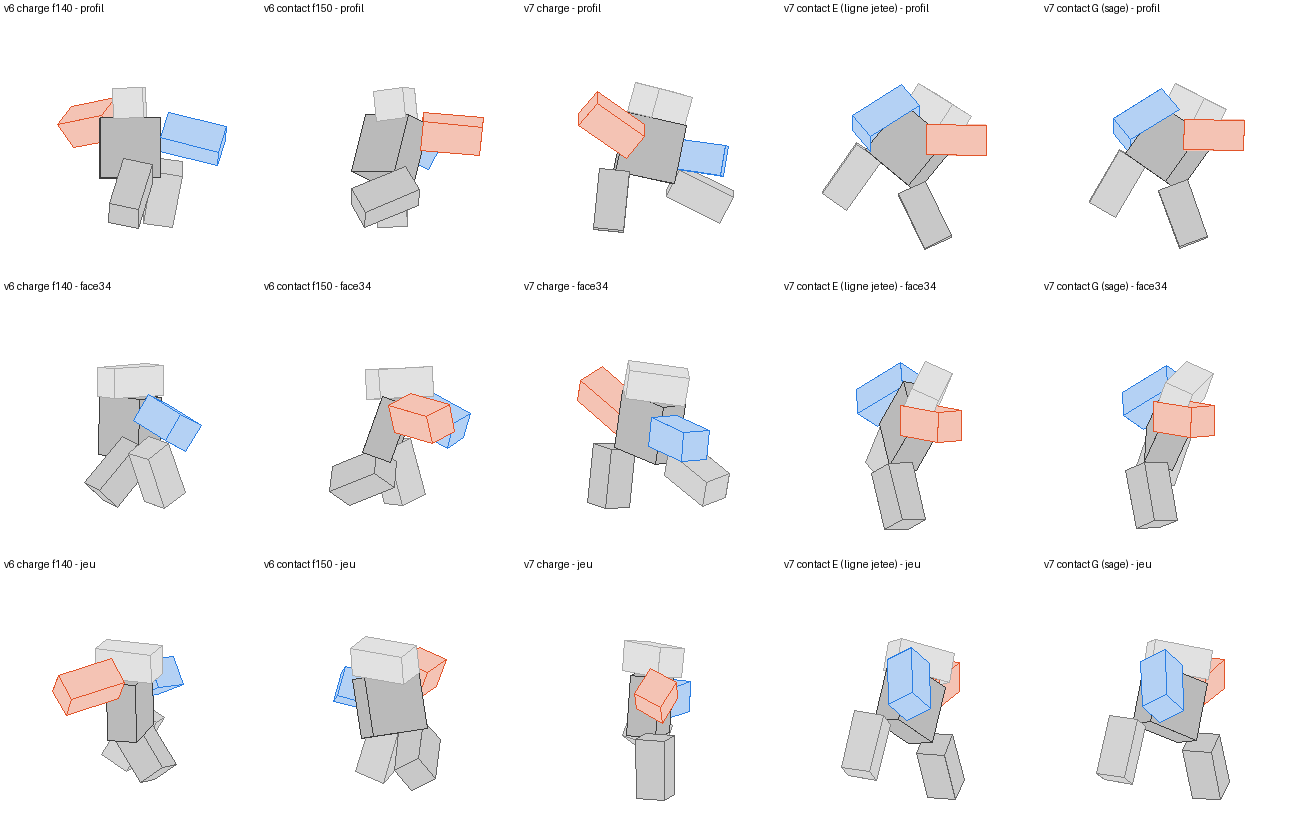
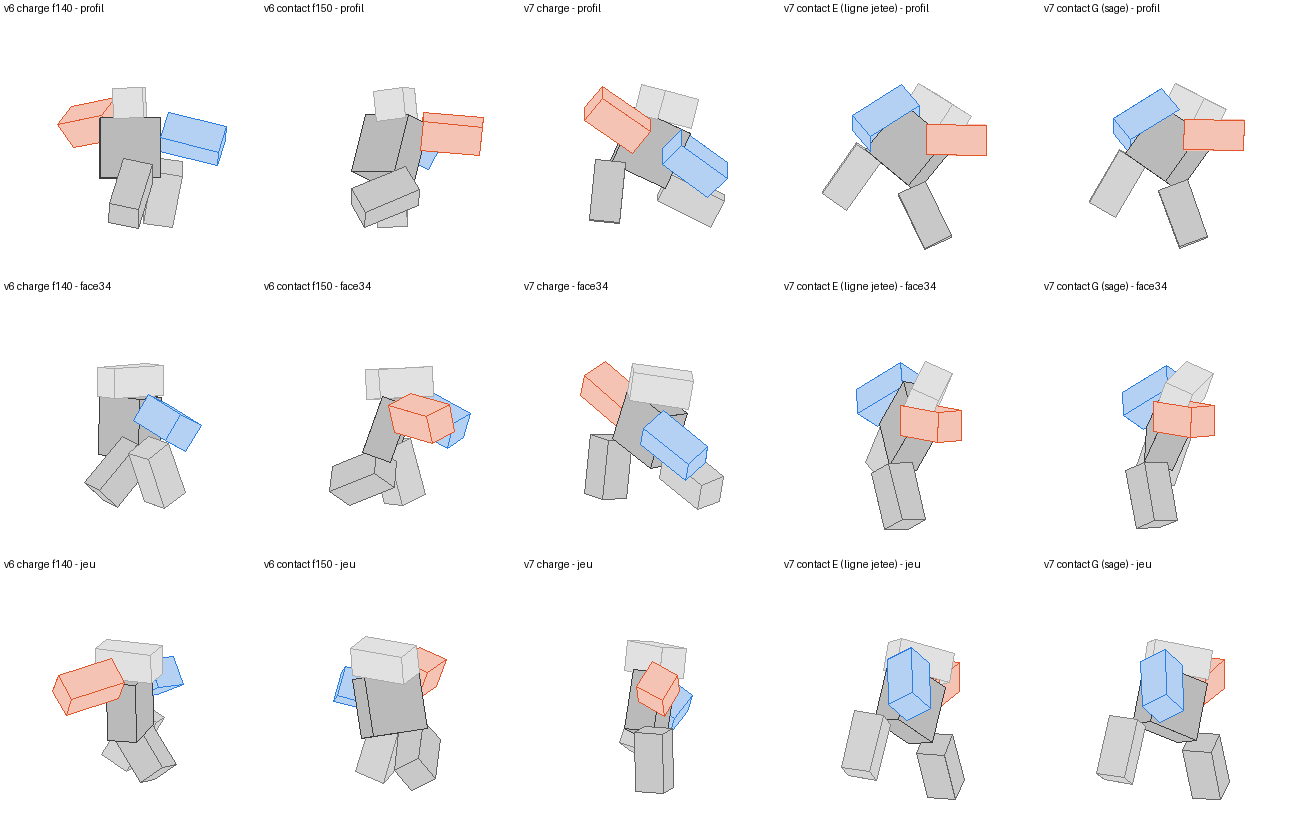
Cerveau : détecteurs mesurés croix / torsion (étalon TSB), correction de mon jugement v6 (torsion déjà 130°), charge v7 plus compacte, décision Milan : pas de coup de pied
Claude-Session: https://claude.ai/code/session_01T2RfbbKEcpoKFsMcBKEbPV

Changed region(s): [[0.4308, 0.4365, 0.5846, 0.6235], [0.4308, 0.0935, 0.5846, 0.2806], [0.4615, 0.7794, 0.5538, 0.9664]]

diff --git a/experiments/_shared/animator_brain/etats.py b/experiments/_shared/animator_brain/etats.py
@@ -87,7 +87,8 @@ def tsb_reference(path=None):
             e = {"cles": len(t), "duree_s": round(float(t[-1] / 60), 2),
                  "cles_par_s": round(float(len(t) / max(t[-1] / 60, 1e-6)), 1),
                  "ecart_median_f": round(float(np.median(np.diff(t))), 1) if len(t) > 1 else None,
-                 "bascule_torse_p90": round(float(np.percentile(tilt, 90)), 1)}
+                 "bascule_torse_p90": round(float(np.percentile(tilt, 90)), 1),
+                 "croix_frac": round(float(np.mean([P.silhouette(x)["croix"] for x in w])), 3)}
             if s["name"] in ("M1", "M2", "M3", "M4"):
                 h = max(("Right Arm", "Left Arm"), key=lambda h: max((P.tip(x, h) - x["Torso"][1]) @ np.array([0, 0, -1.0]) for x in w))
                 c = P.strike_frame(w, h)
@@ -129,7 +130,10 @@ def etalons(pro):
         sk = [v["bascule_torse_p90"] for k, v in tsb["clips"].items()
               if not k.startswith("M") and "Victim" not in k and "Ultimate" not in k]
         E["bascule_competence_min"] = round(float(np.percentile(sk, 25)), 1)
-        E["doc_tsb"] = "plateau : M1-M4 TSB - 0,07 ; bascule : 1er quartile des competences TSB (p90 de la bascule du torse)"
+        cx = [v["croix_frac"] for k, v in tsb["clips"].items() if "Victim" not in k and "croix_frac" in v]
+        if cx:
+            E["croix_max"] = round(max(cx) + 0.05, 3)
+        E["doc_tsb"] = "croix : part max d'images en croix chez l'attaquant TSB + 5 points ; plateau : M1-M4 TSB - 0,07 ; bascule : 1er quartile des competences TSB (p90 de la bascule du torse)"
     return E
 
 
@@ -223,6 +227,16 @@ def etat_version(prod, cfg, version, commit, hyp, E):
             b90 = float(np.percentile(tilt, 90))
             etat["bascule_competence"] = b90 >= E["bascule_competence_min"]
             preuve["bascule_competence"] = f"coup final (f{ff - 42}-{ff + 20}) : bascule du torse p90 {b90:.0f} deg ; competences TSB >= {E['bascule_competence_min']}"
+    # tutos video (2026-09-24) : croix de face pendant la charge du coup final, torsion charge -> contact
+    ff = sc.get("final_f")
+    if ff:
+        cr = [P.silhouette(world[i])["croix"] for i in range(max(0, ff - 32), min(len(world), ff - 3))]
+        frac = float(np.mean(cr)) if cr else 0.0
+        etat["silhouette_non_croix"] = frac <= E.get("croix_max", 0.05)
+        preuve["silhouette_non_croix"] = f"charge du coup final (f{ff - 32}-{ff - 4}) : {frac * 100:.0f} % des images en croix ; TSB attaquant <= {E.get('croix_max', 0.05) * 100:.0f} %"
+        tr = P.torsion(world, ff - 32, ff - 3, ff)
+        etat["torsion_charge_contact"] = tr >= 90
+        preuve["torsion_charge_contact"] = f"lacet du torse charge -> contact f{ff} : {tr:.0f} deg ; tutos R6 >= 90"
     # parties : les memes mesures, partie par partie (pour apprendre de ce que Milan AIME)
     parties = {s: {"arcs": v["deviation_mediane"] is not None and v["deviation_mediane"] >= E["arcs_deviation_min"],
                    "mesures": v} for s, v in seg.items()}

diff --git a/experiments/_shared/animator_brain/perception.py b/experiments/_shared/animator_brain/perception.py
@@ -237,6 +237,38 @@ def pose_impact(world, c, part):
             "translation_bras": round(float(np.linalg.norm(X.joint_transform(part, w)[1])), 2)}
 
 
+def silhouette(w):
+    """Lecture d'une pose (tutos vidéo, 2026-09-24, corpus/TUTOS_ANIMATION.md §8).
+    - bascule_deg : inclinaison du torse par rapport à la verticale.
+    - bras_vertical_max : |composante verticale| la plus forte des deux bras
+      (0 = les deux à l'horizontale).
+    - bras_dehors : min des deux bras de leur projection vers l'extérieur de
+      leur propre côté (1 = bras écartés en croix ; < 0 = croisés devant).
+    - croix : torse droit (< 10°) + deux bras à l'horizontale (< 0,35) + écartés
+      (> 0,5). C'est le ✗ « boring sameside posing / looks like a stickman »
+      de la planche de Xoaterz. Les bras CROISÉS devant la poitrine (TSB Stoic
+      Bomb) ne sont pas une croix : c'était un faux positif sans bras_dehors.
+      Mesuré sur les 13 animations TSB : 0 % des images chez l'attaquant
+      (Ultimate1 0,2 %)."""
+    rT = w["Torso"][0]
+    x = rT @ np.array([1.0, 0.0, 0.0])
+    a = w["Right Arm"][0] @ np.array([0.0, -1.0, 0.0])
+    b = w["Left Arm"][0] @ np.array([0.0, -1.0, 0.0])
+    bascule = float(np.degrees(np.arccos(np.clip((rT @ np.array([0.0, 1.0, 0.0]))[1], -1, 1))))
+    vert = float(max(abs(a[1]), abs(b[1])))
+    dehors = float(min(a @ x, -(b @ x)))
+    return {"bascule_deg": round(bascule, 1), "bras_vertical_max": round(vert, 2), "bras_dehors": round(dehors, 2),
+            "croix": bool(bascule < 10 and vert < 0.35 and dehors > 0.5)}
+
+
+def torsion(world, charge_lo, charge_hi, contact):
+    """Rotation du torse (lacet, degrés) entre la charge (médiane de la fenêtre)
+    et le contact. Tutos R6 : ~90 à 180° sur un coup qui compte."""
+    y = [yaw_deg(world, i) for i in range(max(0, charge_lo), min(len(world), charge_hi))]
+    d = yaw_deg(world, contact) - float(np.median(y))
+    return round(abs((d + 180) % 360 - 180), 1)
+
+
 def profil_frappe(world, c, part, n=12):
     """Forme du profil de vitesse du poing jusqu'au contact (fichier TSB
     officiel, 2026-09-24). TSB M1-M4 : lente derive (~15-20 studs/s) puis le

diff --git a/experiments/r6_poing_dragon/scripts/croquis_v7.py b/experiments/r6_poing_dragon/scripts/croquis_v7.py
@@ -45,9 +45,12 @@ def leg(a, back=False, x=0.05):
 
 def charge():
     # rotations MONDE : lacet puis tangage vers la cible (-Z) => Rx(-a) @ Ry(lacet)
-    return L.pose(Rx(-12) @ Ry(-85), Rx(-15) @ Ry(-35),
+    # bascule 25° + bras avant replié bas et vers l'intérieur : silhouette compacte.
+    # Avec 12° et un bras avant tendu, le croquis ne sortait de la « croix » que
+    # de justesse (seuil de bascule : 10°).
+    return L.pose(Rx(-25) @ Ry(-85), Rx(-15) @ Ry(-35),
                   aim((0.25, 0.55, 0.8)),     # poing armé haut derrière l'épaule
-                  aim((0.1, -0.15, -1)),      # bras avant qui vise la cible
+                  aim((-0.35, -0.55, -0.75)), # bras avant replié, qui vise bas
                   aim((0.05, -1, 0.1)),       # jambe d'appui verticale
                   aim((-0.1, -0.45, -0.9)))   # genou levé vers la cible
 

diff --git a/experiments/r6_poing_dragon/FICHE_V7.md b/experiments/r6_poing_dragon/FICHE_V7.md
@@ -24,8 +24,8 @@ rejettent.
 
 | | v6 | ce que montrent les sources |
 |---|---|---|
-| **charge** | croix : torse vertical et de face, bras de chaque côté | ✗ exact de la planche de Xoaterz : « boring sameside posing / looks like a stickman ». Le ✓ « akin to The Serious Punch (TSB) » a le torse de 3/4 penché, le bras armé derrière l'épaule et le genou levé. Même chose dans le tuto punch (torse ~90° détourné) et l'uppercut Moon (torse de profil). |
-| **contact** | torse vertical, seul le bras part | Tuto punch : torse pivoté ~180° depuis la charge, penché ~45°, bras décollé vers l'avant. Coup de boxe (anime) : épaule rentrée, tête qui plonge. Compétences TSB : le corps bascule de 44 à 97°. |
+| **charge** | croix : torse droit (bascule 0-1°), les deux bras à l'horizontale, écartés. **Mesuré : 93 % des images de la charge en croix ; attaquant TSB : 0 % sur 13 animations.** | ✗ exact de la planche de Xoaterz : « boring sameside posing / looks like a stickman ». Le ✓ « akin to The Serious Punch (TSB) » a le torse de 3/4 penché, le bras armé derrière l'épaule et le genou levé. Même chose dans le tuto punch (torse ~90° détourné) et l'uppercut Moon (torse de profil). |
+| **contact** | torse penché de seulement 20°, et le **bras libre part vers l'avant avec l'autre** (écart entre les deux bras : 28°). La torsion, elle, est déjà là : **130° mesurés** de la charge au contact. | Tuto punch : torse pivoté ~180° depuis la charge, penché ~45°, bras décollé vers l'avant. Coup de boxe (anime) : épaule rentrée, tête qui plonge. Compétences TSB : le corps bascule de 44 à 97°. |
 | **tenue** | pose tenue | Uppercut Moon : la tenue n'est **jamais figée** (petits cercles qui ralentissent). |
 | **frappe** | rampe cuite image par image | Linear, clés espacées ; la frappe tient en **2 images** entre deux clés (uppercut, punch). |
 
@@ -42,9 +42,15 @@ Ce que les sources confirment de la v6 (on n'y touche pas) :
 (script : `scripts/croquis_v7.py`), sur trois vues : profil, 3/4 face et
 caméra de jeu.
 
-- **Charge v7** : torse détourné ~85° de la cible, légèrement penché. Poing
-  armé HAUT derrière l'épaule, bras avant qui vise, genou levé.
-  Silhouette compacte et asymétrique.
+- **Charge v7** : torse détourné ~85° de la cible (la v6 l'est déjà) et
+  penché de 25°. Poing armé HAUT derrière l'épaule, bras avant replié qui
+  vise bas, genou levé. Silhouette compacte et asymétrique.
+  - Le détecteur de croix dit « non » sur ce croquis, et « oui » sur 93 % de
+    la charge v6.
+  - Une 1re version, penchée de 12° avec le bras avant tendu, ne sortait de
+    la croix que de justesse. Elle a été corrigée.
+  - **Risque** : en caméra de jeu (de dos), une charge de profil est étroite.
+    On vérifiera la lisibilité sur la vraie capture du rig.
 - **Contact v7 E, « ligne jetée »** : lacet +70°, soit ~155° de rotation
   depuis la charge. Torse penché de 40° vers la cible, bras horizontal, bras
   libre ramené à la hanche. La jambe arrière prolonge le torse et traîne en
@@ -69,17 +75,16 @@ hanche, ou bras tiré vers l'extérieur hors de la silhouette.
 | temps | changement | règle du cerveau |
 |---|---|---|
 | charge f118-146 | croix → **charge « Serious Punch »** (croquis). La **tête regarde la cible**. Tenue vivante : petits cercles, amplitude décroissante. | `silhouette_non_croix`, `compression_extension`, `regard_intention`, `tenue_vivante` |
-| coup f146-150 | **frappe en 2 images** entre deux clés, avec une clé intermédiaire sur le seul bras qui frappe. **Torsion de ~155°** de la charge au contact. | `frappe_lineaire`, `torsion_charge_contact` |
-| contact f150 + hitstop | **ligne jetée E** (ou G). 1 image de dépassement puis retour. Le gel du hitstop reste un gel (c'est le signal). | `ligne_epaules` (coups qui comptent), `depassement_1f`, `bascule_competence` |
+| coup f146-150 | **frappe en 2 images** entre deux clés, avec une clé intermédiaire sur le seul bras qui frappe. On garde la torsion (130° en v6, ~155° sur le croquis). | `frappe_lineaire`, `torsion_charge_contact` (déjà vraie) |
+| contact f150 + hitstop | **ligne jetée E** (ou G) : bascule 20° → 40°, **bras libre ramené** (v6 : tendu avec l'autre). 1 image de dépassement puis retour. Le gel du hitstop reste un gel (c'est le signal). | `ligne_epaules` (coups qui comptent), `depassement_1f`, `bascule_competence` |
 | après le coup | **retour avec effort** (reprise d'appui), puis tenue vivante et non figée | `recuperation_effort`, `tenue_vivante` |
-| rafale h1-h4 | **inchangée** dans ses timings. Les M1 TSB ne suivent pas la ligne d'épaules. On retouche seulement si une pose tombe dans la croix ✗. Coup de pied en h4 : à décider avec Milan (voir plus bas). | contre-indications `ligne_epaules`, `torsion_charge_contact` |
+| rafale h1-h4 | **inchangée**, **que des poings** (décision de Milan : pas de coup de pied). Les M1 TSB ne suivent pas la ligne d'épaules. On retouche seulement si une pose tombe dans la croix ✗. | contre-indications `ligne_epaules`, `torsion_charge_contact` |
 | export | poses clés seules (~15/s) en Linear | `frappe_lineaire` (TSB) |
 | caméra ciné | **un cran moins** : gros plans plus courts, secousses réduites | retour Milan |
 | aérien, VFX, cartes, rythme | **inchangés** | ne pas casser ce qui marche |
 
-**Option h4, coup de pied** (TSB M4). C'est un choix de design : Milan
-décide. S'il est retenu, on le croque dans le rig V2.22, jambes en IK. Le
-labo à blocs rigides ne tient pas une jambe d'appui.
+**Décision de Milan (2026-09-24) : pas de coup de pied.** La technique reste
+uniquement aux poings.
 
 ## Méthode d'exécution (après le go)
 

diff --git a/experiments/_shared/animator_brain/RETOURS.md b/experiments/_shared/animator_brain/RETOURS.md
@@ -238,3 +238,22 @@ cerveau, voir la fin de l'entrée.
   - Prochain pas : nommer ce cap sur l'image (nos poses clés contre celles
     des refs, même moment, même grille) avant de toucher à une clé.
 
+
+- **2026-09-24, après l'étude des tutos vidéo** (Milan : « es-que tu as bien
+  appris ? » ; « je veux pas de coup de pied »).
+  - **Décision de design : aucun coup de pied** dans le Poing du Dragon.
+    Uniquement des poings. L'option h4 « coup de pied » (TSB M4) est
+    abandonnée.
+  - **Ce que « appris » veut dire ici** : deux règles des tutos sont devenues
+    des MESURES (`perception.silhouette`, `perception.torsion`, branchées
+    dans `etats.py`), étalonnées sur TSB.
+    - **Croix** : 0 % des images chez l'attaquant TSB (13 animations), 93 %
+      pendant notre charge v6. La règle est confirmée par la mesure.
+    - **Torsion charge → contact** : 130° en v6. **Mon jugement à l'œil
+      (« pas de torsion ») était FAUX.** La mesure l'a corrigé : le défaut du
+      contact v6 est ailleurs (bascule 20°, bras libre tendu vers l'avant
+      avec l'autre).
+    - **Faux positif corrigé** : les bras CROISÉS devant (TSB Stoic Bomb)
+      comptaient comme une croix. Il manquait la condition « chaque bras part
+      vers l'extérieur ». Vu sur la planche, corrigé.
+    - Preuve : `captures/verification/2026-09-24-cerveau-detecteur-croix-v6-tsb-v7.png`.
